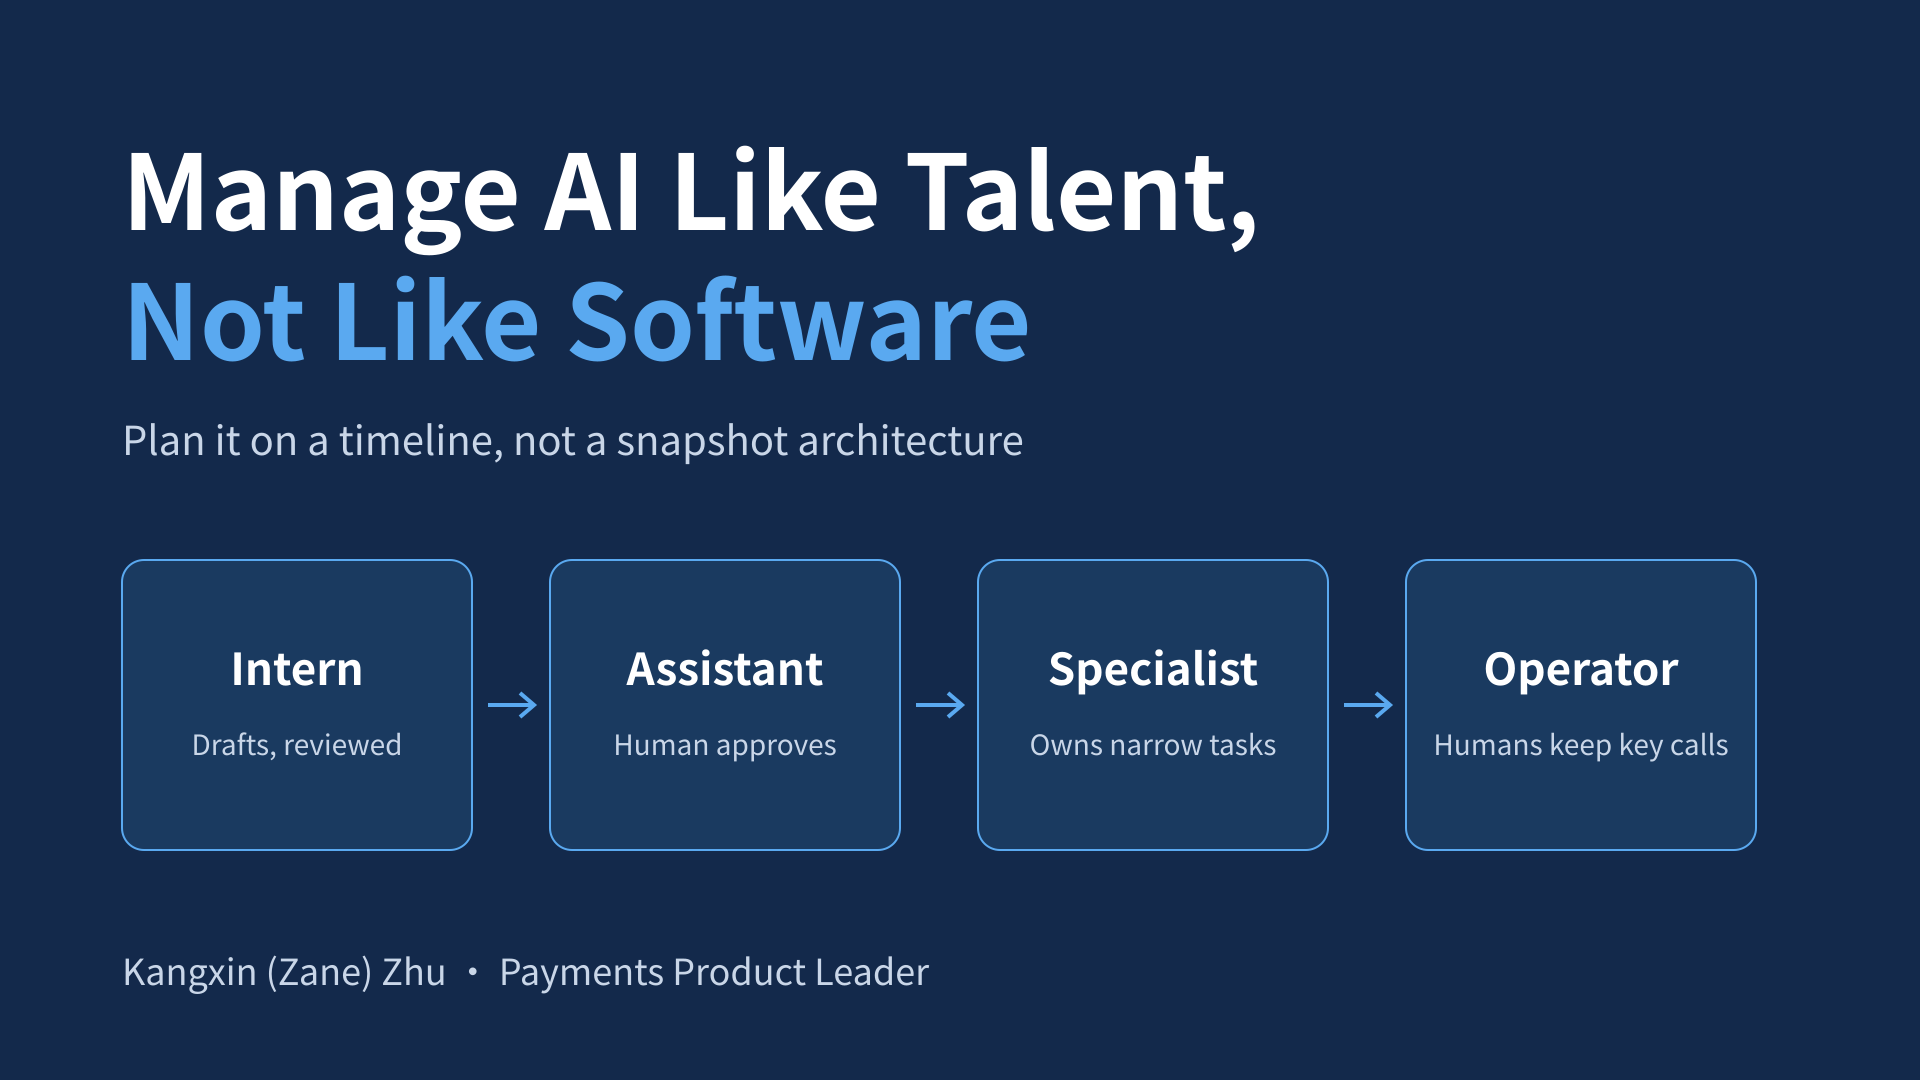
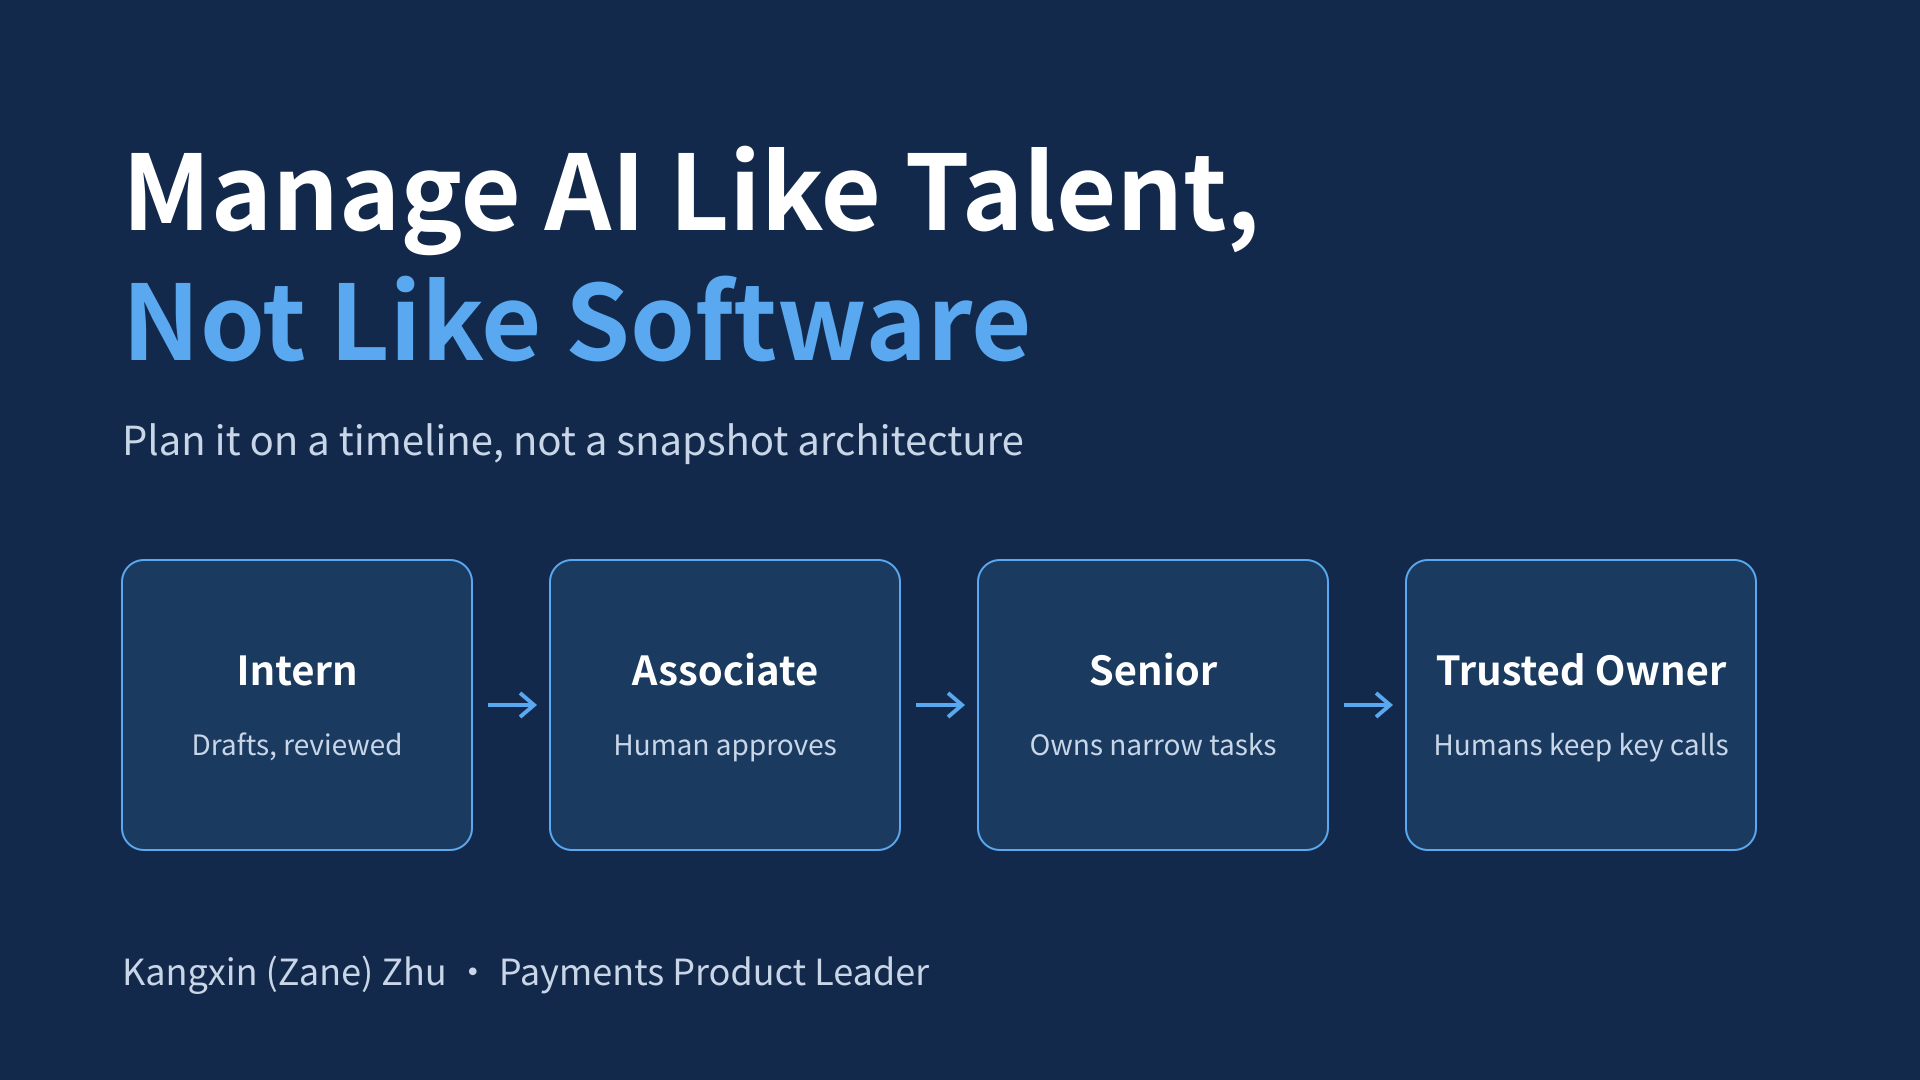
Change Intern → Assistant → Specialist → Operator more proper wording

diff --git a/content/articles/zh/manage-ai-like-talent.md b/content/articles/zh/manage-ai-like-talent.md
@@ -114,7 +114,7 @@ LLM有时会"幻觉"：说出听起来正确、实际上错误的内容。人也
 
 把时间线变成计划。为每个AI使用场景明确当前阶段、下一阶段，以及晋升所需的证据，就像管理者规划新员工的成长一样。
 
-[![AI培养路线图：四个阶段（实习生、助理、专员、独当一面）逐步扩大工作范围、权限和复核方式；阶段之间有三个凭证据通过的关卡；每次模型升级或每季度进行一次复测](/images/articles/ai-talent-roadmap-zh.svg)](/images/articles/ai-talent-roadmap-zh.svg)
+[![AI培养路线图：四个阶段（实习生、初级员工、资深员工、独当一面）逐步扩大工作范围、权限和复核方式；阶段之间有三个凭证据通过的关卡；每次模型升级或每季度进行一次复测](/images/articles/ai-talent-roadmap-zh.svg)](/images/articles/ai-talent-roadmap-zh.svg)
 
 *图：AI培养路线图 —— 4个阶段、3个关卡、1个复测循环。*
 

diff --git a/content/articles/en/manage-ai-like-talent.md b/content/articles/en/manage-ai-like-talent.md
@@ -114,7 +114,7 @@ The alternative is the way good companies treat people. Nobody hires a graduate 
 
 Turn the timeline into a plan. Give each AI use case a stage, a next stage and the evidence needed to get there, the same way a manager plans a new hire's growth.
 
-[![AI development roadmap: four stages (Intern, Assistant, Specialist, Operator) with widening work, access and review; three evidence gates between them; and a re-test loop at every model release or each quarter](/images/articles/ai-talent-roadmap-en.svg)](/images/articles/ai-talent-roadmap-en.svg)
+[![AI development roadmap: four stages (Intern, Associate, Senior, Trusted Owner) with widening work, access and review; three evidence gates between them; and a re-test loop at every model release or each quarter](/images/articles/ai-talent-roadmap-en.svg)](/images/articles/ai-talent-roadmap-en.svg)
 
 *Figure: AI development roadmap — 4 stages, 3 gates, 1 re-test loop.*
 
